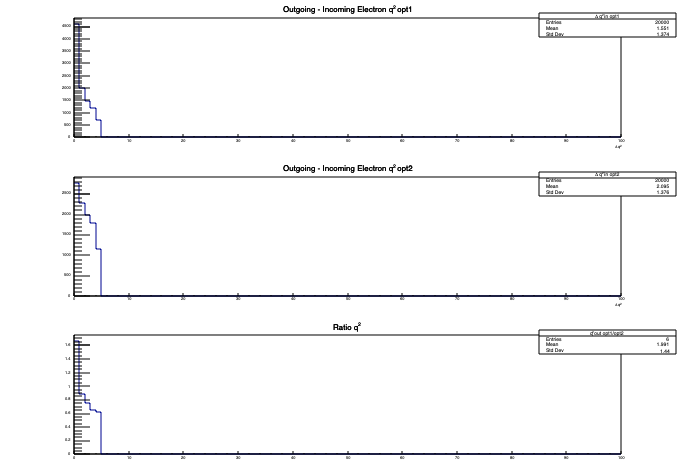
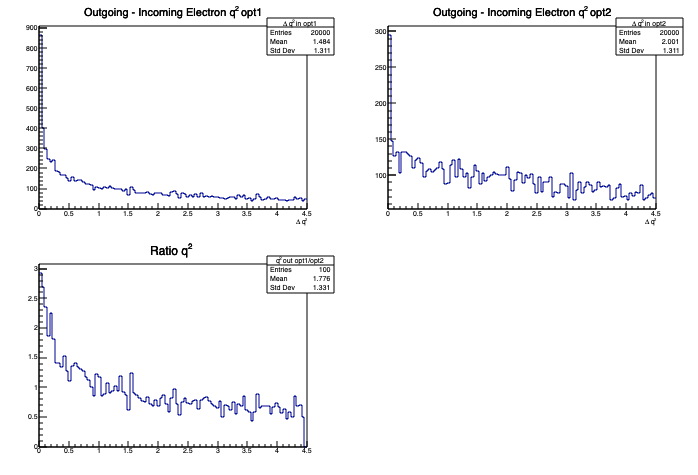
fixed angles to correct coords

Changed region(s): [[0.0301, 0.0, 0.9928, 0.9726], [0.1203, 0.6779, 0.9928, 0.7663]]

diff --git a/electron_plots.py b/electron_plots.py
@@ -5,29 +5,58 @@ data=readLHEF('nonMinECut/unweighted_events.lhe')
 electrons=data.getParticlesByIDs([11,-11])
 c=TCanvas()
 c.Divide(2,2)
-hist_e_theta=TH1F("theta_elec", "Outgoing Electron Theta",100,-1,1)
+c_mom=TCanvas()
+c_mom.Divide(2,2)
+
+hist_e_theta_out=TH1F("theta_elec_out", "Outgoing Electron Theta",100,1,2)
+hist_e_phi_out=TH1F("phi_elec_out", "Outgoing Electron Phi",100,-math.pi/2,math.pi/2)
 hist_4in=TH1F("q^{2} in", "Incoming Electron q^{2} ", 100,0,100)
 hist_4out=TH1F("q^{2} out", "Outgoing Electron q^{2} ", 100,0,100)
+
+hist_Pz_out=TH1F("P_{z} out", "Outgoing Electron P_{z} ", 50,0,5)
+hist_Px_out=TH1F("P_{x} out", "Outgoing Electron P_{x} ", 50,-1,1)
+hist_Py_out=TH1F("P_{y} out", "Outgoing Electron P_{y} ", 50,-1,1)
 
 for e in electrons:
 
     if e.status is -1 :
         squared_4mom = (e.px*e.px + e.py*e.py+e.pz*e.pz+e.energy*e.energy)
         hist_4in.Fill(squared_4mom)
+
     if e.status is 1:
-        val = math.atan(e.py/e.pz)
-        hist_e_theta.Fill(val)
+        r = math.sqrt(e.px*e.px + e.py*e.py+e.pz*e.pz)
+        theta = math.acos(e.py/r)
+        hist_e_theta_out.Fill(theta)
+        azim = math.atan(e.pz/e.px)
+        hist_e_phi_out.Fill(azim)
         squared_4mom = (e.px*e.px + e.py*e.py+e.pz*e.pz+e.energy*e.energy)
         hist_4out.Fill(squared_4mom)
+        hist_Pz_out.Fill(e.pz)
+        hist_Py_out.Fill(e.py)
+        hist_Px_out.Fill(e.px)
 
 
 c.cd(1)
-hist_e_theta.GetXaxis().SetTitle("#theta")
-hist_e_theta.Draw()
+hist_e_theta_out.GetXaxis().SetTitle("#theta[rad]")
+hist_e_theta_out.Draw()
 c.cd(2)
+hist_e_phi_out.GetXaxis().SetTitle("#phi[rad]")
+hist_e_phi_out.Draw()
+c.cd(3)
 hist_4in.GetXaxis().SetTitle("q^{2}_{e_{in}}")
 hist_4in.Draw()
-c.cd(3)
+c.cd(4)
 hist_4out.GetXaxis().SetTitle("q^{2}_{e_{out}}")
 hist_4out.Draw()
-c.SaveAs("electron_plots.png")
+c.SaveAs("electron_angle_plots.png")
+
+c_mom.cd(1)
+hist_Px_out.GetXaxis().SetTitle("P_{x}")
+hist_Px_out.Draw()
+c_mom.cd(2)
+hist_Py_out.GetXaxis().SetTitle("P_{y}")
+hist_Py_out.Draw()
+c_mom.cd(3)
+hist_Pz_out.GetXaxis().SetTitle("P_{z}")
+hist_Pz_out.Draw()
+c_mom.SaveAs("electron_mom_plots.png")

diff --git a/photon_plots.py b/photon_plots.py
@@ -5,24 +5,33 @@ data=readLHEF('nonMinECut/unweighted_events.lhe')
 photons=data.getParticlesByIDs([22,-22])
 c=TCanvas()
 c.Divide(2,2)
-hist_photon_theta=TH1F("theta_photon", "Photon Theta",100,-1,1)
-hist_photon_pt =TH1F("photon pt", "Photon Pt",100,-1,1)
+hist_photon_theta=TH1F("theta_photon", "Photon Theta",100,1,2)
+hist_photon_pt =TH1F("photon pt", "Photon Pt",100,0.2,0.7)
 hist_EvTheta=TH2F("Photon Energy v Theta", "Photon Energy v Theta",
-                100,-1,1,100,0,5)
+                100,1, 2,100,0,4)
+hist_phi=TH1F("phi_photon", "Photon Phi",100,-math.pi, math.pi)
 
 for g in photons:
-    val = math.atan(g.py/g.pz)
-    hist_photon_theta.Fill(val)
+    #theta = math.atan(g.py/g.pz)
+    r = math.sqrt(g.px*g.px + g.py*g.py+g.pz*g.pz)
+    theta = math.acos(g.py/r)
+    azim = math.atan(g.pz/g.px)
+    hist_phi.Fill(azim)
+    hist_photon_theta.Fill(theta)
     hist_photon_pt.Fill(g.pt)
-    hist_EvTheta.Fill(val,g.energy)
+    hist_EvTheta.Fill(theta,g.energy)
+
 c.cd(1)
 hist_photon_theta.Draw()
 hist_photon_theta.GetXaxis().SetTitle("#theta")
 c.cd(2)
+hist_phi.Draw()
+hist_phi.GetXaxis().SetTitle("#phi")
+c.cd(3)
 hist_EvTheta.GetXaxis().SetTitle("#theta")
 hist_EvTheta.GetYaxis().SetTitle("E_{#gamma}")
-hist_EvTheta.Draw()
-c.cd(3)
+hist_EvTheta.Draw("COLZ")
+c.cd(4)
 hist_photon_pt.Draw()
 hist_photon_pt.GetXaxis().SetTitle("p_{t}_{#gamma}")
 c.SaveAs("photon_plots.png")

diff --git a/compare4mom.py b/compare4mom.py
@@ -8,10 +8,10 @@ electrons02=data02.getParticlesByIDs([11,-11])
 electrons03=data03.getParticlesByIDs([11,-11])
 
 c=TCanvas()
-c.Divide(1,3)
-hist_4mom_diff_opt1=TH1F("#Delta q^{2} in opt1", "Outgoing - Incoming Electron q^{2} opt1", 100,0,100)
-hist_4mom_diff_opt2=TH1F("#Delta q^{2} in opt2", "Outgoing - Incoming Electron q^{2} opt2", 100,0,100)
-hist_4momRatio=TH1F("q^{2} out opt1/opt2", "Ratio q^{2} ", 100,0,100)
+c.Divide(2,2)
+hist_4mom_diff_opt1=TH1F("#Delta q^{2} in opt1", "Outgoing - Incoming Electron q^{2} opt1", 100,0,4.5)
+hist_4mom_diff_opt2=TH1F("#Delta q^{2} in opt2", "Outgoing - Incoming Electron q^{2} opt2", 100,0,4.5)
+hist_4momRatio=TH1F("q^{2} out opt1/opt2", "Ratio q^{2} ", 100,0,4.5)
 
 for e in electrons02:
     squared_4mom_in = 0
